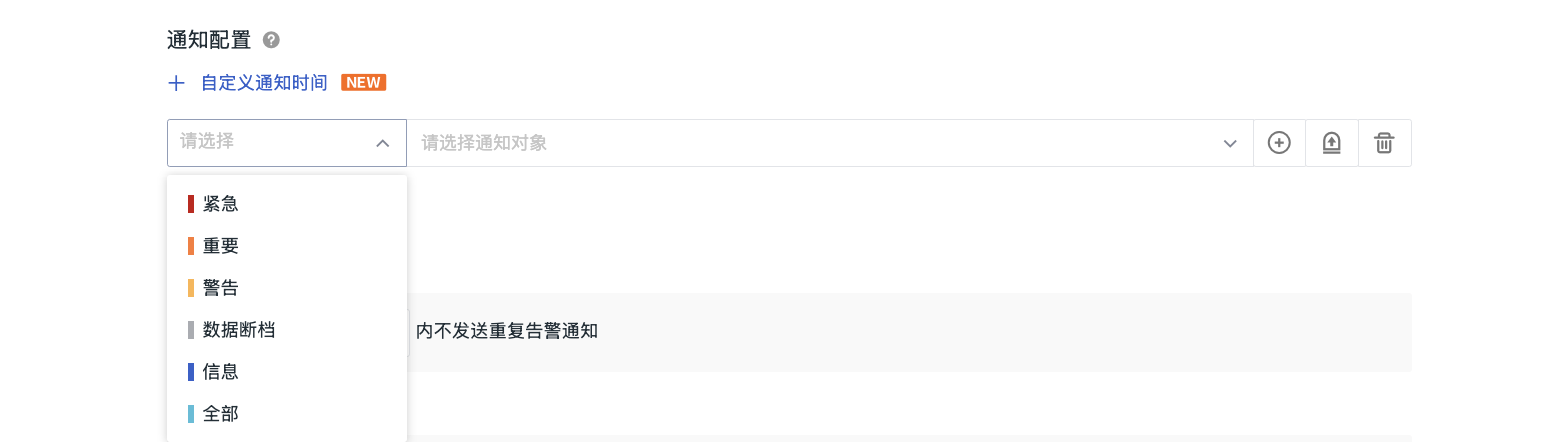
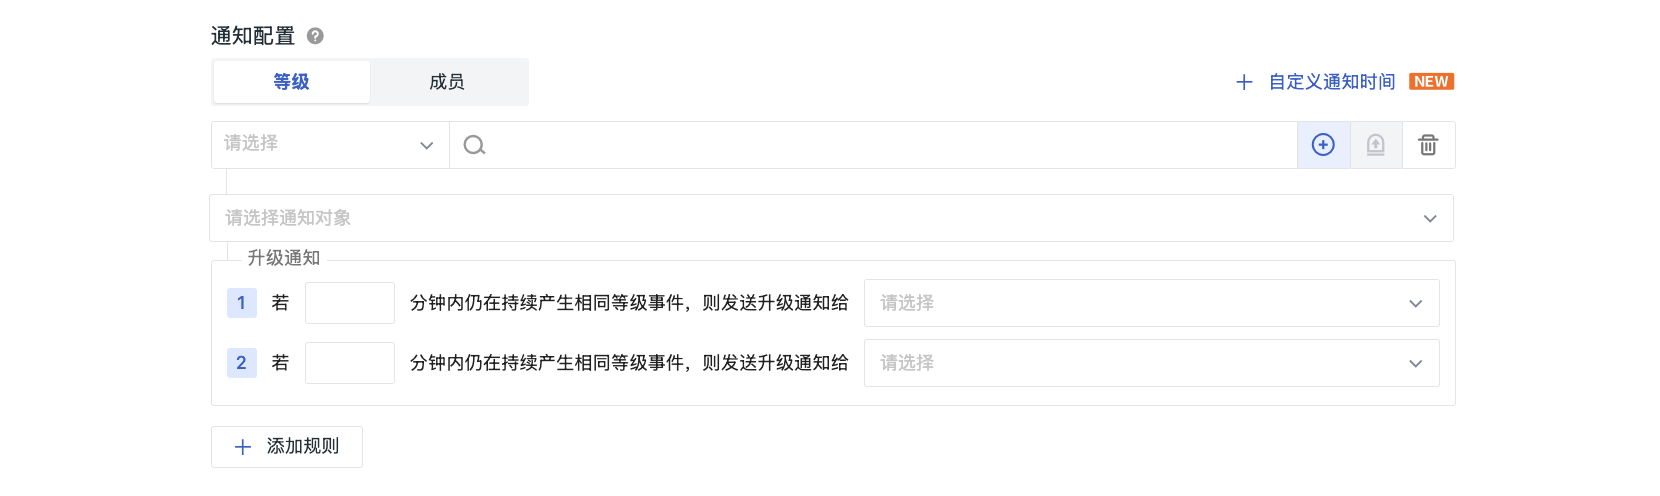
11.6update

diff --git a/docs/zh/monitoring/alert-setting.md b/docs/zh/monitoring/alert-setting.md
@@ -1,42 +1,65 @@
 # 告警策略
 ---
 
-一旦[监控器](./monitor/index.md)检测到异常情况，观测云会依据预设的告警策略向相关对象发送通知，以便及时发现并解决监测到的异常数据问题。
+当[监控器](./monitor/index.md)发现异常时，会创建异常事件记录。通过将监控器与告警策略关联，可以确保及时向相关对象发送告警通知。
 
-???+ warning "系统默认的告警策略"
+此处的告警策略，观测云除了为其配备名称、描述、时区、操作权限等基础功能外，还可以从等级和成员两个维度来定义告警策略对外发送通知的方式，并为这些策略添加升级通知功能。观测云还允许您自定义通知发送的时间。
 
-    - 每个监控器创建时必须选择一个告警策略，默认选中**默认**；   
-    - 当某个告警策略被删除时，删除告警策略下的监控器将自动归类到**默认**下。
+为了应对持续发生的异常事件或满足特定告警条件的情况，您可以设置重复告警规则来控制通知的频率。在最终发送通知时，您还可以选择是否将通知聚合，以一种更高效和节约的方式向接收者提供信息。
+
+
+
+## 概念先解
+
+| 名词 | 描述 |
+| --- | --- |
+| 通知时区 | 即定义当前告警通知发送的时间所处的时区。此处默认显示当前的[工作空间时区](../management/index.md#workspace)。若拥有者或管理员未配置，则默认填充 `东八区` 时区。 |
+| 事件等级 | 即异常事件的紧急程度。此处可选的等级包括**紧急、重要、警告、数据断档、信息、全部**。 |
+| 通知对象 | 即当前等级的事件最终通知到的对象。 |
+| [告警升级](#upgrade) | 有时基于等级或成员的简单通知配置无法满足业务需求。如果监控器在短时间内多次检测到相同等级的异常，可能表示存在持续问题。为避免重复通知，您可以设置规则，将持续异常自动升级为紧急通知，并发送给指定接收者，以确保问题得到及时关注和处理。 |
+| [自定义通知时间](#custom) | 即通过周期和时间两个维度，自行设定通知发送的具体时刻。 |
+| [重复告警](#repeat) | 您可指定时间区间，在此区间内同一事件告警通知被抑制。即使[事件](../events/index.md)数据持续产生，系统仅记录不重复发送告警，事件记录可在事件查看器查看。比如，在您的工作空间内，同一个事件不是非常紧急，但是告警通知频率高，可以通过设置重复告警通知的时间间隔这一方式来减少告警通知频率。 |
+| [告警聚合](#pattern) | 即定义事件数据以不聚合、规则聚合、智能聚合三种模式对外发送通知。在后两种模式下，事件将根据相应的聚合规则合并后发送。 |
+| [聚合周期](#cycle) | 基于规则聚合和智能聚合的模式，将一定分钟数内的新事件合并为一条告警通知。一旦超过这个聚合周期，新发生的事件将被归入下一条新的告警通知中。 |
+
+
 
 ## 开始新建 {#create}
 
 1. 定义当前告警策略的名称；
 2. 按需输入针对该策略的描述；
-3. 选择通知时区，默认显示当前的[工作空间时区](../management/index.md#workspace)。若拥有者或管理员未配置，则默认填充 `东八区` 时区；
-4. 选择基于[等级](#notice-config)配置触发通知的告警策略；
-5. 选择重复告警（原告警沉默）。即，若同一个事件不是非常紧急，但是告警通知频率高，可以通过设置重复告警通知的时间间隔这一方式来减少告警通知频率；
-6. 选择[告警聚合](#pattern)，将决定告警通知的最终聚合形式；
+3. 选择通知时区；
+4. 选择基于[等级](#notice-config)或基于[成员](#member)配置触发通知的告警策略；
+5. 按需选择重复告警（原告警沉默）的时间范围；
+6. 选择[告警聚合](#pattern)的模式，决定告警通知的最终聚合形式；
 7. 为策略规则添加[操作权限](#permission)；
 8. 点击保存，即可创建成功。
 
+### 通知配置 {#config}
 
-**注意**：
+???+ warning "配置须知"
 
-1. 设置重复告警通知后，事件数据会继续产生，但是不会再发送告警通知，产生的数据记录会存入[事件](../events/index.md)查看器。
-2. 若选择【永久】这一重复告警选项，观测云仅发送首次告警通知，后续不再重复发送。
+    - 恢复通知：当历史发送的异常告警事件恢复后，观测云会发送恢复通知到对应通知对象。例如：给某个群发送过相关事件的`紧急`通知，当这一状态开始恢复时，会向此群发送恢复通知。  
+    - 通知延迟：告警通知并非产生后立即发送，会因为数据入库等问题存在最多 1 分钟的延迟。
 
-### 基于等级的通知配置 {#simple}
+目前支持基于等级和基于成员的两种通知配置。
 
-直接定义各个等级的告警发送通知对象。
+前者在选定事件等级后，为该类异常事件设定通知对象。如果设置了[过滤条件](#filter)，则进一步限制某一等级下的事件数据范围，最终向对象发送通知。
+
+后者为先选定成员或团队，为其框定需要关注或负责的事件数据范围，在这部分数据内，再划定事件等级以及对应要通知到的对象，实现事件与对象的强关联。
+
+#### 基于等级的通知配置 {#simple}
+
+定义各个等级下的告警发送通知对象。
 
 <img src="../img/notice-config.png" width="90%" >
 
-:material-numeric-1-circle-outline: [事件等级](monitor/event-level-description.md)：包括**紧急、重要、警告、数据断档、信息、全部**。
+1. 选择[事件等级](monitor/event-level-description.md)。
 
-- 一种事件等级可选择多次； 
-- 基于选定的事件等级，您可以联动[告警聚合](#pattern)进行告警通知。
+    - 一种事件等级可选择多次； 
+    - 基于选定的事件等级，您可以联动[告警聚合](#pattern)。
 
-:material-numeric-2-circle-outline: 通知对象：针对单个异常等级，配置通知对象；通知对象可选择单个或多个。
+2. 选择该等级的事件需要发送通知的对象。
 
 | <div style="width: 210px">类型</div>      | 说明      |
 | ----------- | ---------------- |
@@ -49,14 +72,26 @@
 | 自定义外部邮箱      | 输入邮箱回车即可；仅支持商业版和部署版用户。      |
 
 
-???+ warning "恢复通知与通知延迟"
+#### 基于成员的通知配置 {#member}
 
-    - 恢复通知：当历史发送的异常告警事件恢复后，观测云会发送恢复通知到对应通知对象。例如：给某个群发送过相关事件的`紧急`通知，当这一状态开始恢复时，会向此群发送恢复通知。  
-    - 通知延迟：告警通知并非产生后立即发送，会因为数据入库等问题存在最多 1 分钟的延迟。
+基于成员配置通知规则，可以实现精准的点对点告警通知。
 
-#### 添加过滤条件 {#filter}
+1. 选定需要通知到的成员和团队；
+2. 添加过滤条件，实现标签匹配；
+3. 针对过滤后的事件数据，您可为不同的事件等级设定对应的通知对象；
+4. 按需开启[自定义通知时间范围](#custom)的配置。
 
-当面临复杂的告警配置场景，单一的[等级对应通知对象](#simple)的方式可能不足以满足需求。在这种情况下，您可以在等级的基础上追加特定的过滤条件。这样，只有**同时满足等级要求和过滤条件的事件才会触发对应的通知对象**，从而实现更加精细的异常事件通知管理。
+
+
+### 添加过滤条件 {#filter}
+
+无论是按等级还是按成员配置通知，添加特定的过滤条件可以：
+
+- 对于基于等级的通知，进一步细化特定等级事件的数据范围；    
+- 对于基于成员的通知，限定成员或团队只关注符合特定标签的事件。  
+
+添加过滤后，**只有符合等级要求和过滤条件的事件才会触发通知**，实现更精准的异常事件通知管理。
+
 
 
 <img src="../img/rule-1.png" width="90%" >
@@ -69,10 +104,9 @@
 **注意**：每条告警规则下仅能添加一组过滤条件，一组条件中可包含一条/多条过滤规则，过滤规则相结合进行条件的筛选。  
 
 
-#### 告警升级通知 {#upgrade}
+### 告警升级通知 {#upgrade}
 
-
-如果监控器在短时间内多次检测到相同等级的异常，这可能表明存在一个持续的问题。为了避免发送过多重复通知，您可以设置通知规则，当异常持续发生时，自动升级为一条紧急通知，并发送给指定的接收者，确保问题得到迅速关注和处理。
+如果监控器在短时间内频繁检测到同等级异常，可能意味着存在持续性问题。为减少重复通知，您可以在基于[等级](#simple)或[成员](#member)的简单通知配置上，增设升级通知规则。这样，当异常持续出现时，系统会自动将其提升为紧急通知，并发送给指定接收者，确保问题能被及时关注和处理。
 
 <img src="../img/upgrade-notice.png" width="70%" >
 
@@ -89,7 +123,7 @@
 
 
 
-#### 自定义通知时间 {#custom}
+### 自定义通知时间 {#custom}
 
 以上讨论的场景主要围绕在检测到异常时自动触发通知的即时性。但实际上，您也可以根据需要，自行设定通知发送的具体时间。
 
@@ -106,7 +140,6 @@
 4. 完成周期、时间相关的配置，即可选择告警级别与通知对象。
 
 
-
 **注意**：
 
 - 在同一个告警策略的单条自定义通知配置中，若配置了多条规则，产生的异常事件会按照由上到下的顺序进行匹配，并会按照优先匹配的自定义配置发送告警通知。若一直未匹配到规则，则不会发送通知。
@@ -114,15 +147,12 @@
 - 在配置监控器时，当[选择多个告警策略](./monitor/mutation-detection.md#alert)，监控器开启后，产生的异常事件会分别匹配选定的告警策略。
 
 
-### 基于成员的通知配置 {#member}
 
-基于成员配置通知规则，可以实现精准的点对点告警通知，从而有助于迅速响应异常事件。在这一配置项下，在用户的层级上帮助更精细化地管理告警通知和问题边界。
+### 重复告警 {#repeat}
 
-1. 选定需要通知到的成员和团队；
-2. 添加过滤条件，实现标签匹配；
-3. 针对过滤后的事件数据，您可为不同的事件等级设定对应的通知对象。如需必要，还可针对该等级[配置升级通知](#upgrade)；
-4. 您可按需开启[自定义通知时间范围](#custom)的配置。
+设置重复告警通知后，在一定的时间范围内，事件数据会继续产生，但是不会再发送告警通知，产生的数据记录会存入事件查看器。
 
+**注意**：若选择【永久】这一重复告警选项，观测云仅发送首次告警通知，后续不再重复发送。
 
 ### 告警聚合 {#pattern}
 
@@ -141,7 +171,7 @@
 :material-numeric-3-circle-outline: 智能聚合：在该模式下，聚合周期内产生的事件将根据选中的`标题`或`内容`聚类分组，每个分组产生一条告警通知。
 
 
-#### 聚合周期
+#### 聚合周期 {#cycle}
 
 在规则聚合和智能聚合的模式下，您可以选择手动设置一个时间范围（1-30 分钟内）。
 

diff --git a/docs/zh/release-notes/index.md b/docs/zh/release-notes/index.md
@@ -23,14 +23,17 @@ icon: zy/release-notes
 
 #### [价格调整](../billing/billing-method/index.md)
 
+<img src="../img/new-billing.png" width="60%" >
+
 1. [用户访问 PV](../billing/billing-method/index.md#pv) 30 天、60 天梯度价格调整；
 2. [应用性能 Trace](../billing/billing-method/index.md#trace) 30 天、60 天梯度价格调整；
 3. [会话重放](../billing/billing-method/index.md#session)价格调整。
 
+<!--
 #### 应用性能监测
 
 Java 应用支持创建[内存快照](../application-performance-monitoring/service-manag/service-list.md#jvm)，帮助开发者可以快速分析和优化应用性能。
-
+-->
 
 #### 监控
 
@@ -38,7 +41,7 @@ Java 应用支持创建[内存快照](../application-performance-monitoring/serv
 
 #### 场景
 
-[Rollup 函数](../scene/visual-chart/chart-query.md#rollup)仅适用于指标数据查询，在图表简单模式下对其他数据类型的查询选择将做下线处理。
+[Rollup 函数](../scene/visual-chart/chart-query.md#rollup)仅适用于指标数据查询，在图表简单模式下，对其他数据类型的查询选择将做下线处理。
 
 
 ### Bug 修复 {#bug1106}
